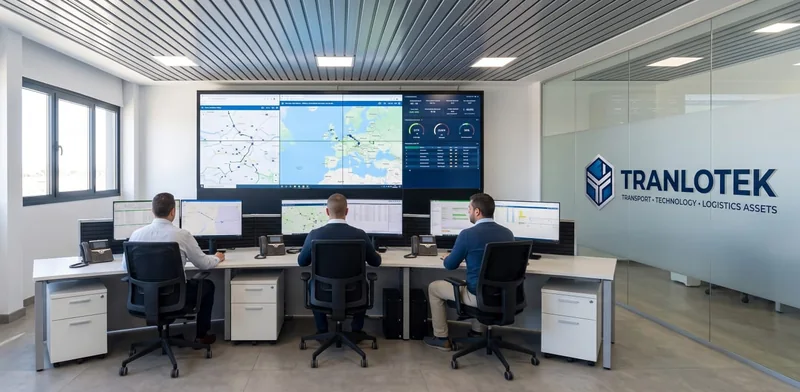
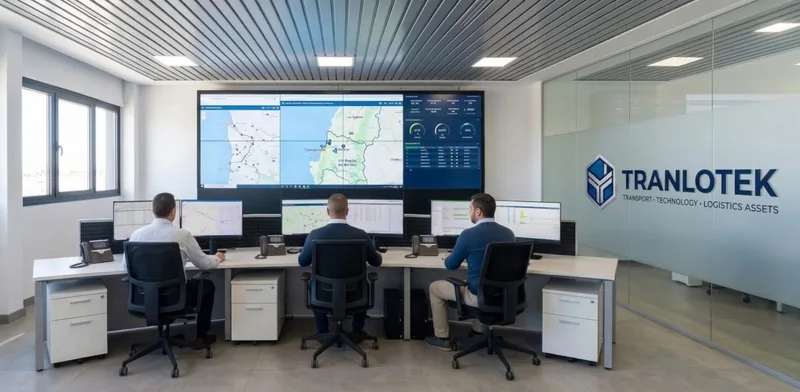
V3: cable por el gancho, contorno completo del mapa y nueva foto de la central
La eslinga pasa por dentro del gancho. El contorno del Gran Concepción
queda continuo al terminar la animación (Chrome cortaba el tramo de
Talcahuano y Hualpén). Nueva foto de la central con el mapa de la zona.

diff --git a/v3/index.html b/v3/index.html
@@ -200,7 +200,7 @@
               </header>
               <p class="stage__line">La central recibe tu pedido a cualquier hora, todos los días.</p>
               <figure class="stage__photo">
-                <img src="assets/img/central-1371.webp" srcset="assets/img/central-800.webp 800w, assets/img/central-1371.webp 1371w" sizes="(max-width: 900px) 100vw, 900px" width="1371" height="672" loading="lazy" alt="Tres operadores trabajan frente a una pared de pantallas con mapas de monitoreo en la central de TRANLOTEK.">
+                <img src="assets/img/central-1469.webp" srcset="assets/img/central-800.webp 800w, assets/img/central-1469.webp 1469w" sizes="(max-width: 900px) 100vw, 900px" width="1469" height="720" loading="lazy" alt="Tres operadores trabajan frente a una pared de pantallas con el mapa de monitoreo de la zona de Concepción en la central de TRANLOTEK.">
                 <figcaption>Central de operaciones</figcaption>
               </figure>
               <div class="stage__services">
@@ -323,7 +323,7 @@
                 <stop offset="0" stop-color="#9AA6B1"/><stop offset=".45" stop-color="#E1E5E8"/><stop offset="1" stop-color="#8E98A2"/>
               </linearGradient>
             </defs>
-            <path class="rigging__sling" d="M222 246 18 296M222 246 442 296"/>
+            <path class="rigging__sling" d="M18 296 207 246Q222 251 237 246L442 296"/>
             <path class="rigging__cable" d="M224 0V70M236 0V70"/>
             <rect class="rigging__block" x="190" y="66" width="80" height="84" rx="10"/>
             <circle class="rigging__sheave" cx="230" cy="100" r="20"/>

diff --git a/v3/assets/css/styles.css b/v3/assets/css/styles.css
@@ -238,6 +238,7 @@ button,input{font:inherit;color:inherit}
 .js .gcmap .gc__pin{opacity:0;transition:opacity .5s var(--ease-out);transition-delay:calc(1.5s + var(--i) * 110ms)}
 .js .gcmap .gc__hq,.js .gcmap .gc__scale{opacity:0;transition:opacity .6s var(--ease-out) .5s}
 .js .gcmap.is-drawn .gc__edge{stroke-dashoffset:0}
+.gcmap.is-done .gc__edge{stroke-dasharray:none}
 .js .gcmap.is-drawn .gc__wave,.js .gcmap.is-drawn .gc__pin,.js .gcmap.is-drawn .gc__hq,.js .gcmap.is-drawn .gc__scale{opacity:1}
 .dataplate{position:relative;margin-top:var(--s-7);padding:28px 28px 20px;border-radius:4px;color:var(--ink);
   background:linear-gradient(170deg,var(--zinc-1),color-mix(in srgb,var(--zinc-1) 55%,var(--zinc-2)) 75%,var(--zinc-2));
@@ -308,7 +309,7 @@ button,input{font:inherit;color:inherit}
 .rigging__shank{fill:url(#steel)}
 .rigging__hook{fill:none;stroke:url(#steel);stroke-width:14;stroke-linecap:round}
 .rigging__latch{stroke:#D9DEE2;stroke-width:3;stroke-linecap:round}
-.rigging__sling{fill:none;stroke:#16202C;stroke-width:5;stroke-linecap:round}
+.rigging__sling{fill:none;stroke:#2C3A4A;stroke-width:5.5;stroke-linecap:round;stroke-linejoin:round}
 .rigging__shackle{fill:#C6CDD3;stroke:#5E6E80;stroke-width:2}
 .js [data-hoist] .rigging,.js [data-hoist] .plate{transform:translateY(-40px);transition:transform 1.6s var(--ease-out)}
 .js [data-hoist].is-hoisted .rigging,.js [data-hoist].is-hoisted .plate{transform:none}

diff --git a/v3/assets/js/main.js b/v3/assets/js/main.js
@@ -110,11 +110,16 @@
   /* ---------- Mapa: dibujo de rutas ---------- */
   const map = document.querySelector('[data-routemap]');
   if (map) {
+    // Al terminar de dibujarse, el contorno pasa a trazo continuo (Chrome corta el guion en trazados con varias partes)
+    const finishMap = () => map.classList.add('is-done');
+    const edge = map.querySelector('.gc__edge');
+    if (edge) edge.addEventListener('transitionend', (e) => { if (e.propertyName === 'stroke-dashoffset') finishMap(); });
     if (reduceMotion || !('IntersectionObserver' in window)) {
       map.classList.add('is-drawn');
+      finishMap();
     } else {
       const mapIO = new IntersectionObserver((entries) => {
-        if (entries.some((e) => e.isIntersecting)) { map.classList.add('is-drawn'); mapIO.disconnect(); }
+        if (entries.some((e) => e.isIntersecting)) { map.classList.add('is-drawn'); mapIO.disconnect(); setTimeout(finishMap, 2600); }
       }, { threshold: 0.35 });
       mapIO.observe(map);
     }
